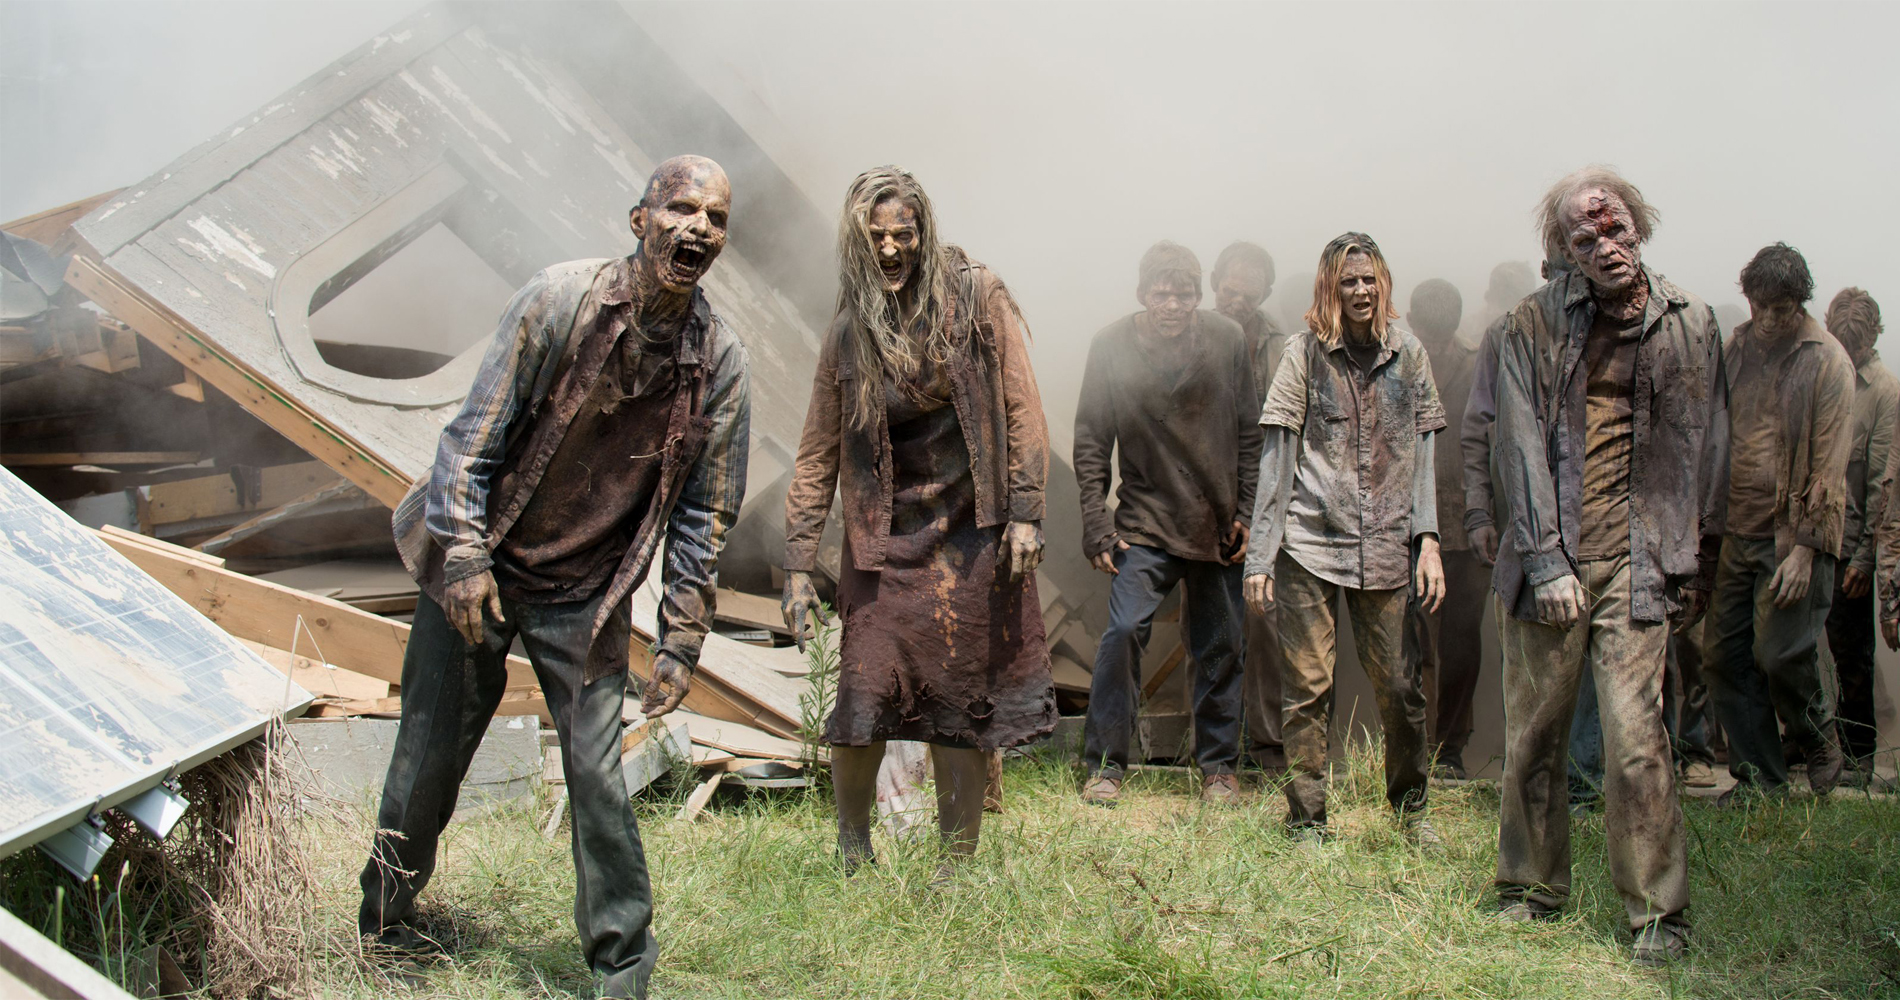
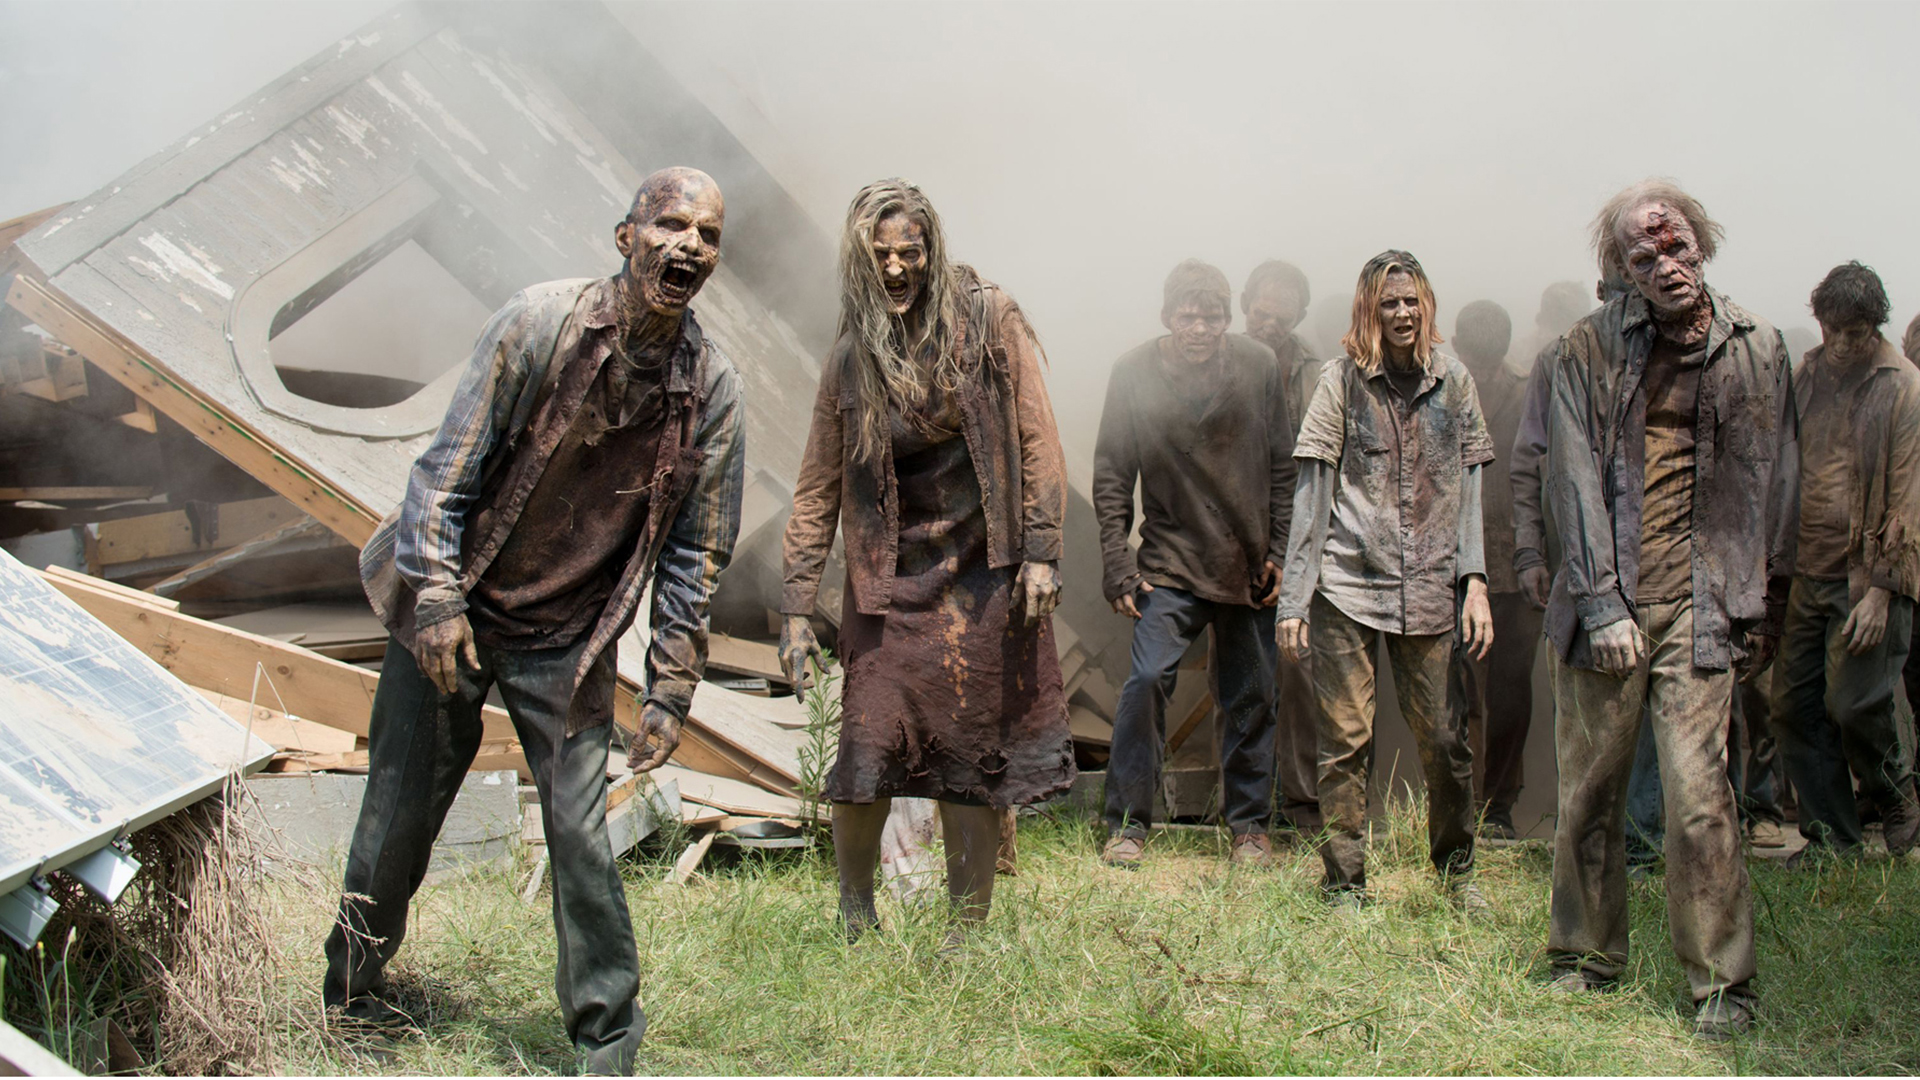
fix background image

diff --git a/scss/structures/_structures.global.scss b/scss/structures/_structures.global.scss
@@ -72,7 +72,7 @@ $ns: s-global;
   height: 200%;
   margin-top: $header-height;
   position: fixed;
-    top: -50%;
+    top: 0;
     left: -50%;
   width: 200%;
 
@@ -85,7 +85,6 @@ $ns: s-global;
       top: 0;
       left: -50%;
       right: -50%;
-      bottom: 0;
   }
 
 }
